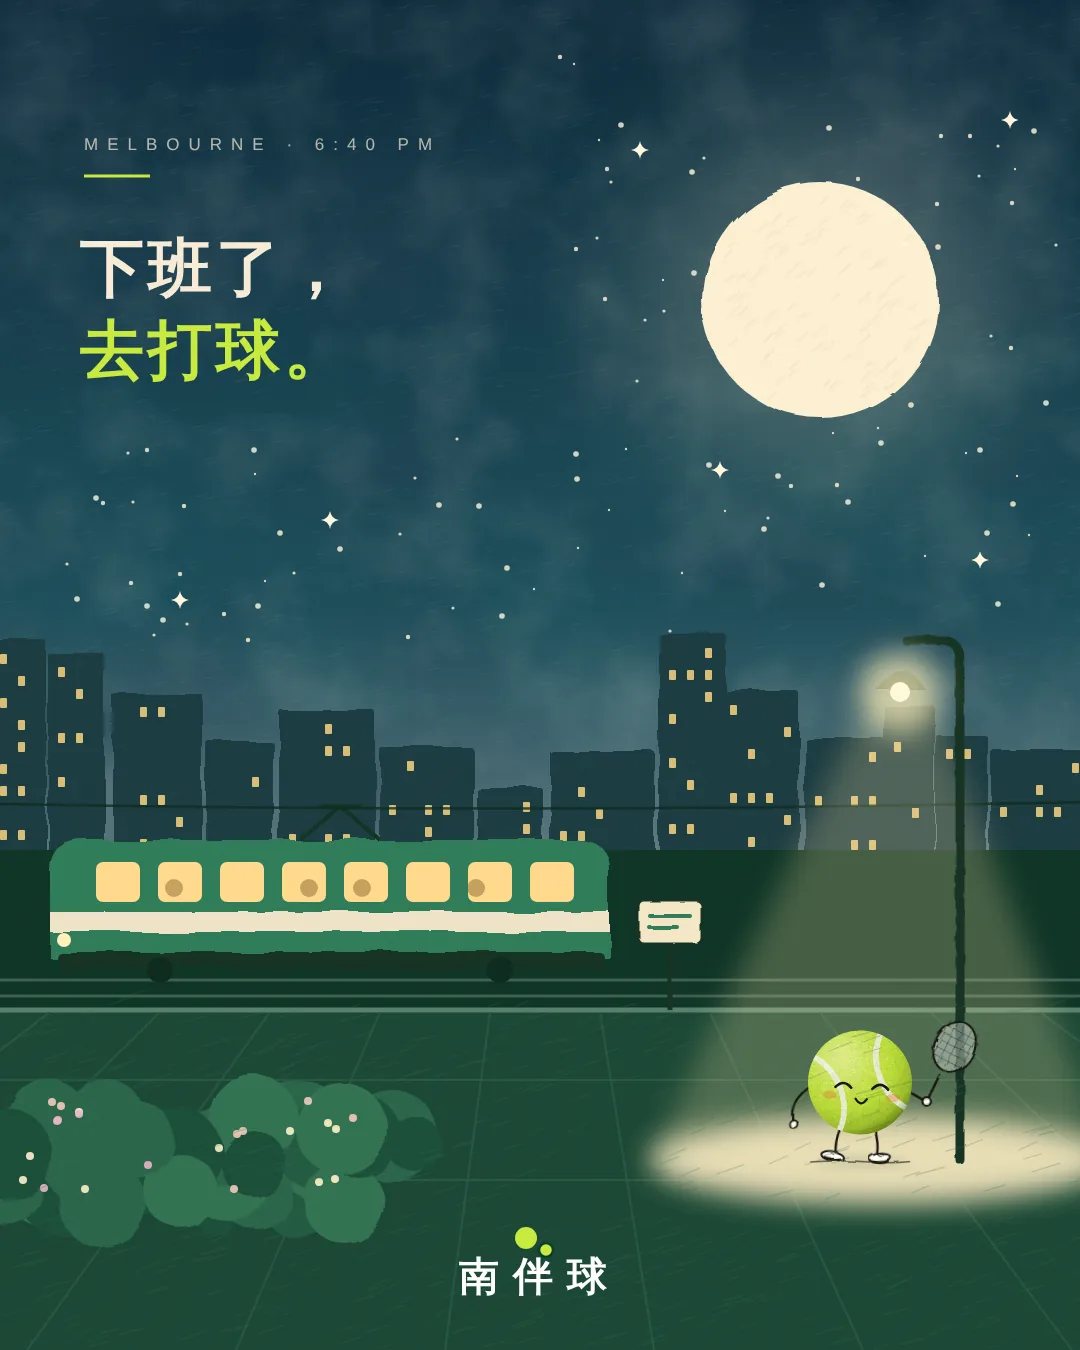
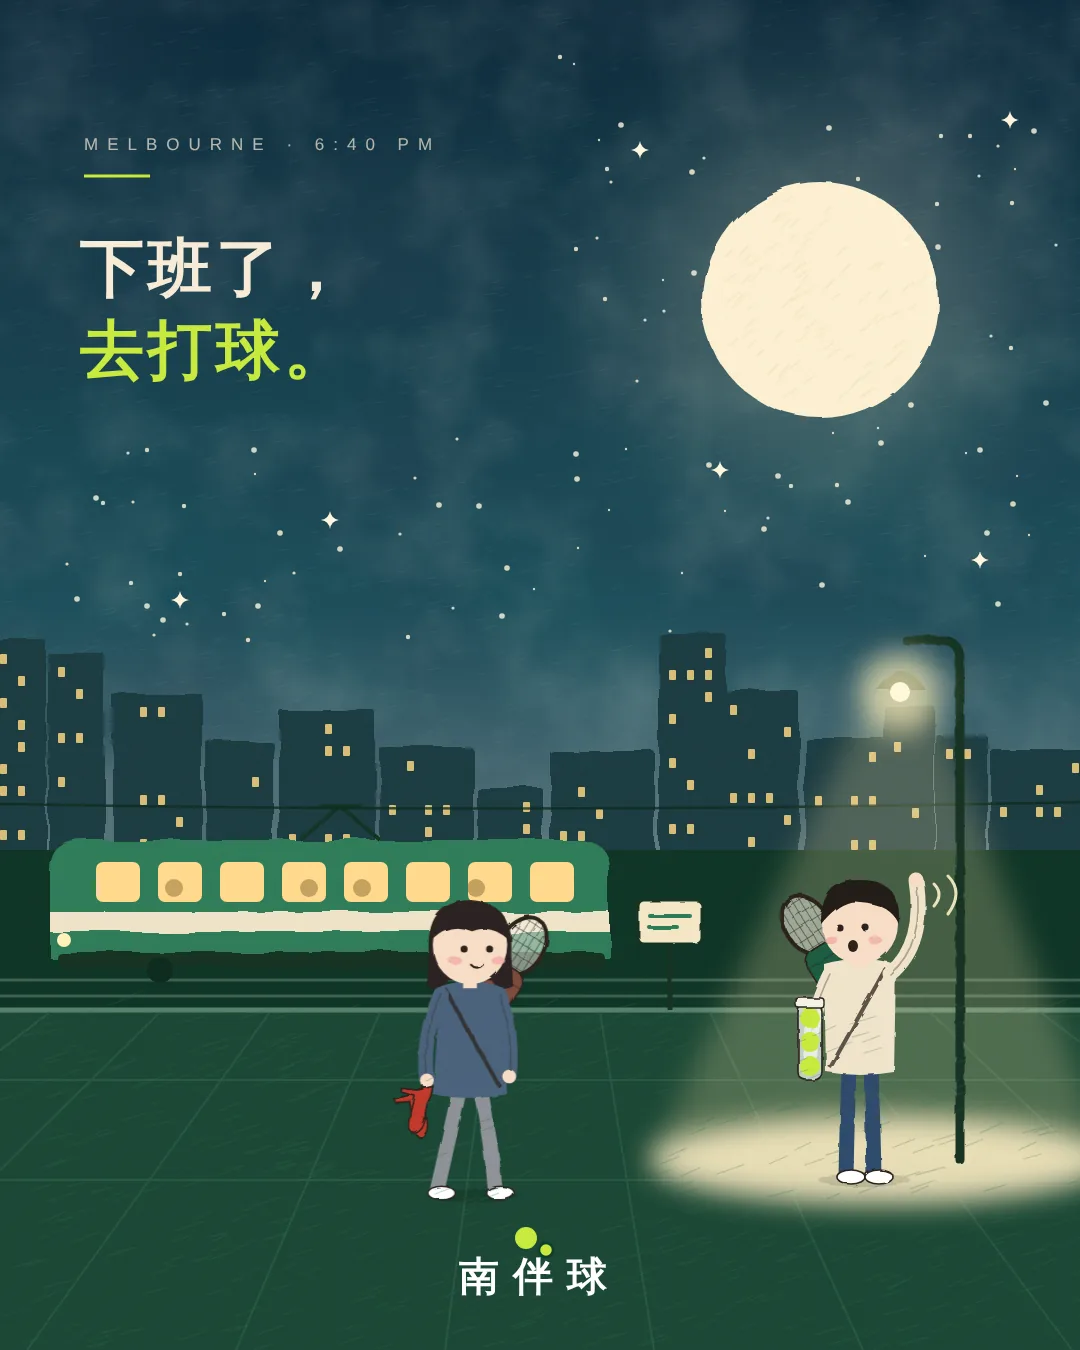
海报 85–86：主角换成都市男女，加故事（下班拎着高跟鞋去约球、雨停前试雨等场地干）；绘本小人抽到 storybook.py
Claude-Session: https://claude.ai/code/session_014vi3eYmPjWCr2gwRMhjjif

Changed region(s): [[0.0, 0.6533, 0.5194, 0.9333], [0.7028, 0.6533, 0.9167, 0.9022]]

diff --git a/marketing/storybook.py b/marketing/storybook.py
@@ -1,0 +1,80 @@
+"""绘本风（85 起）：水彩晕染 wash、彩铅排线 hatch、绘本小人 person。
+person(x, gy, s, ...)：脚踩在 (x, gy)，s=1 时身高约 300；圆头、豆豆眼、腮红、细胳膊细腿，
+衣服平涂，整体套 rough2 轻微抖动。手的位置用相对坐标（以脚底为原点，向上为负）。
+"""
+from lib import *
+
+INK, SKIN = '#2A211C', '#F7DCC4'
+
+
+def wash(fid, seed, freq, color, k, b):
+    """水彩晕染：低频噪声当成一层不均匀的颜料。"""
+    return (f'<filter id="{fid}" x="0" y="0" width="{W}" height="{H}" filterUnits="userSpaceOnUse">'
+            f'<feTurbulence type="fractalNoise" baseFrequency="{freq}" numOctaves="4" seed="{seed}"/>'
+            f'<feColorMatrix values="0 0 0 0 {color[0]} 0 0 0 0 {color[1]} 0 0 0 0 {color[2]} {k} 0 0 0 {b}"/></filter>')
+
+
+def hatch(n, x0, y0, x1, y1, color, op, ang=-62, ln=(10, 22), w=1.3):
+    out = []
+    for _ in range(n):
+        x, y = random.uniform(x0, x1), random.uniform(y0, y1)
+        l = random.uniform(*ln)
+        a = math.radians(ang + random.uniform(-6, 6))
+        out.append(f'M{x:.0f} {y:.0f} l{l*math.cos(a):.1f} {l*math.sin(a):.1f}')
+    return f'<path d="{" ".join(out)}" stroke="{color}" stroke-width="{w}" stroke-linecap="round" opacity="{op}" fill="none"/>'
+
+
+def person(x, gy, s=1.0, sex='f', top='#E9DCC2', bottom='#3B4A5A', hair='#2B2320', shoe='#FFFFFF',
+           L=(-46, -120), R=(46, -120), Le=None, Re=None, legs='stand', look=0, mood='smile',
+           bag=None, behind='', front='', bag_side=1):
+    """L / R：左右手位置；Le / Re：肘的位置（不给就自动）。legs: stand / walk。
+    bag：背在身后的球拍包颜色；behind / front：画在身体后 / 前的道具（同一坐标系）。"""
+    def arm(sh, h, e, sign):
+        if e is None:
+            e = ((sh[0] + h[0]) / 2 + sign * 10, (sh[1] + h[1]) / 2)
+        return (f'<path d="M{sh[0]} {sh[1]} Q{e[0]} {e[1]} {h[0]} {h[1]}" stroke="{top}" stroke-width="15" fill="none" stroke-linecap="round"/>'
+                f'<path d="M{sh[0]} {sh[1]} Q{e[0]} {e[1]} {h[0]} {h[1]}" stroke="{INK}" stroke-width="1.6" fill="none" opacity=".35" stroke-linecap="round"/>'
+                f'<circle cx="{h[0]}" cy="{h[1]}" r="7" fill="{SKIN}"/>')
+    if legs == 'walk':
+        lg = [((-10, -112), (-22, -56), (-34, -4)), ((10, -112), (22, -54), (26, -4))]
+    else:
+        lg = [((-11, -112), (-13, -56), (-14, -4)), ((11, -112), (13, -56), (14, -4))]
+    legs_s = ''.join(f'<path d="M{a[0]} {a[1]} Q{b[0]} {b[1]} {c[0]} {c[1]}" stroke="{bottom}" stroke-width="15" fill="none" stroke-linecap="round"/>' for a, b, c in lg)
+    shoes = ''.join(f'<ellipse cx="{c[0] + 5}" cy="-3" rx="14" ry="7" fill="{shoe}" stroke="{INK}" stroke-width="1.6"/>' for _, _, c in lg)
+    if sex == 'f':
+        torso = f'<path d="M-30 -214 Q0 -224 30 -214 L38 -104 Q0 -96 -38 -104 Z" fill="{top}"/>'
+        hair_b = f'<path d="M-42 -248 Q-46 -300 0 -302 Q46 -300 42 -248 L44 -214 Q30 -206 22 -220 L-22 -220 Q-30 -206 -44 -214 Z" fill="{hair}"/>'
+        hair_f = f'<path d="M-39 -262 Q-30 -300 0 -298 Q34 -298 39 -262 Q20 -278 {-4 + look*6} -270 Q-20 -280 -39 -262 Z" fill="{hair}"/>'
+    else:
+        torso = f'<path d="M-36 -216 Q0 -226 36 -216 L34 -108 Q0 -102 -34 -108 Z" fill="{top}"/>'
+        hair_b = ''
+        hair_f = f'<path d="M-39 -256 Q-40 -302 2 -300 Q42 -300 39 -256 Q30 -276 {6 + look*6} -278 Q-18 -282 -39 -256 Z" fill="{hair}"/>'
+    fx = look * 7
+    if mood == 'smile':
+        mouth = f'<path d="M{fx - 6} -236 Q{fx} -230 {fx + 6} -236" stroke="{INK}" stroke-width="2.2" fill="none" stroke-linecap="round"/>'
+    elif mood == 'open':
+        mouth = f'<ellipse cx="{fx}" cy="-234" rx="5" ry="6" fill="{INK}"/>'
+    else:
+        mouth = f'<path d="M{fx - 5} -234 H{fx + 5}" stroke="{INK}" stroke-width="2.2" stroke-linecap="round"/>'
+    head = (f'<rect x="-7" y="-226" width="14" height="14" fill="{SKIN}"/>'
+            f'<ellipse cx="0" cy="-256" rx="38" ry="40" fill="{SKIN}"/>'
+            f'<circle cx="{fx - 13}" cy="-252" r="3.6" fill="{INK}"/><circle cx="{fx + 13}" cy="-252" r="3.6" fill="{INK}"/>'
+            f'<ellipse cx="{fx - 22}" cy="-240" rx="7" ry="4" fill="#F2A2A0" opacity=".7"/><ellipse cx="{fx + 22}" cy="-240" rx="7" ry="4" fill="#F2A2A0" opacity=".7"/>'
+            + mouth)
+    bag_s = ''
+    if bag:
+        strings = ''.join(f'<path d="M{k} -306 V-232" stroke="{INK}" stroke-width="1" opacity=".5"/>' for k in (-14, -7, 0, 7, 14)) + \
+            ''.join(f'<path d="M-20 {k} H20" stroke="{INK}" stroke-width="1" opacity=".5"/>' for k in (-296, -284, -272, -260, -248))
+        bag_s = (f'<g transform="rotate({32*bag_side} 0 -170)">'
+                 f'<clipPath id="rh{abs(hash((x, gy)))}"><ellipse cx="0" cy="-270" rx="22" ry="32"/></clipPath>'
+                 f'<ellipse cx="0" cy="-270" rx="22" ry="32" fill="#F4F1E6" fill-opacity=".5" stroke="{INK}" stroke-width="4"/>'
+                 f'<g clip-path="url(#rh{abs(hash((x, gy)))})">{strings}</g>'
+                 f'<rect x="-22" y="-246" width="44" height="100" rx="14" fill="{bag}" stroke="{INK}" stroke-width="1.6"/>'
+                 f'<path d="M-22 -232 H22" stroke="{INK}" stroke-width="1.2" opacity=".5"/></g>')
+        strap = f'<path d="M{-26*bag_side} -212 L{30*bag_side} -112" stroke="{INK}" stroke-width="4" opacity=".75"/>'
+    else:
+        strap = ''
+    return (f'<g transform="translate({x} {gy}) scale({s})" filter="url(#rough2)">'
+            f'<ellipse cx="4" cy="0" rx="46" ry="7" fill="#000" opacity=".12"/>'
+            f'{behind}{bag_s}{hair_b}{legs_s}{shoes}{torso}{strap}'
+            f'{arm((-30, -206), L, Le, -1)}{arm((30, -206), R, Re, 1)}{head}{hair_f}{front}</g>')

diff --git a/marketing/posters/p86_rain_ten_minutes.py b/marketing/posters/p86_rain_ten_minutes.py
@@ -1,13 +1,12 @@
 from lib import *
-from mao3 import figure3, DOWN_L, DOWN_R
-from posters.p85_tram_after_work import wash, hatch
+from storybook import wash, hatch, person
 
 
 META = dict(
     id=86, slug='rain-ten-minutes', title='雨停了，再等十分钟', lines=['雨停了，', '再等十分钟。'],
-    style=['插画', '绘本', '角色', '雨'], tone='浅色', demo=False,
-    concept='绘本风（水彩晕染 + 彩铅排线）：雨快停了，湿漉漉的球场积着水，树和铁丝网都是灰绿的；小毛撑着一把深绿的大伞，小绒伸手出伞外试雨，指尖上方落下最后一滴；前面的水洼倒映着他俩',
-    use='雨天改期 / 等场地干的朋友圈配图；小毛小绒绘本风',
+    style=['插画', '绘本', '故事', '雨'], tone='浅色', demo=False,
+    concept='绘本风（水彩晕染 + 彩铅排线）：雨快停了，湿漉漉的球场积着水；男生撑着深绿的大伞、肩上搭着擦场地的毛巾，女生把手伸出伞外试雨，指尖上方落下最后一滴；前面的水洼倒映着他俩',
+    use='雨天改期 / 等场地干的朋友圈配图；绘本风',
 )
 
 
@@ -39,20 +38,20 @@ def svg():
     rain = ''.join(f'<path d="M{x:.0f} {y:.0f} l-6 {random.uniform(18, 34):.0f}"/>' for x, y in
                    [(x, y) for x, y in [(random.uniform(0, 1080), random.uniform(0, 1) ** 2.2 * 640) for _ in range(70)] if not (x < 520 and 100 < y < 420)])
     # 角色 + 伞
-    gy, rm, rr = 1104, 80, 75
-    xm, xr = 460, 636
-    cym = gy - 1.53 * rm
-    hm = ((548 - xm) / rm, (950 - cym) / rm)
-    mao_pose = dict(L=DOWN_L, R=((1.30, .25), hm), legs='stand')
-    rong_pose = dict(L=DOWN_L, R=((1.55, .30), (1.84, .02)), legs='stand')
+    gy = 1110
+    xm, xr = 456, 640
+    towel = ('<path d="M-36 -216 Q-46 -200 -44 -150 L-26 -150 Q-26 -196 -18 -214 Z" fill="#FFFFFF" stroke="#2A211C" stroke-width="1.5"/>'
+             '<path d="M-44 -162 H-26 M-44 -156 H-26" stroke="#2F7552" stroke-width="2"/>')
     def pair(sfx):
-        return (figure3('m' + sfx, xm, 0, rm, mao_pose, 'smile', gy=gy, look=1)
-                + figure3('r' + sfx, xr, 0, rr, rong_pose, 'happy', gy=gy, char='rong'))
-    ucx, utop, urim = 548, 700, 812
-    umb = f'''
+        return (person(xm, gy, 1.0, 'm', top='#C9D6CF', bottom='#3C4A5C', hair='#231C18', L=(-44, -118),
+                       R=(92, -206), Re=(70, -166), look=1, mood='smile', front=towel, bag='#7A4A3A', bag_side=-1)
+                + person(xr, gy, .94, 'f', top='#E8C9A8', bottom='#5B6A7A', hair='#3A2A22', L=(-40, -120),
+                         R=(150, -196), Re=(86, -178), look=1, mood='open', bag='#2F4A6A', bag_side=-1))
+    ucx, utop, urim = 548, 640, 752
+    umb = f'''<g transform="translate({ucx} 0) scale(.8 1) translate({-ucx} 0)">
 <g filter="url(#rough2)">
- <path d="M{ucx} {utop + 6} V952" stroke="#171412" stroke-width="5" stroke-linecap="round"/>
- <path d="M{ucx} 952 Q{ucx} 972 {ucx - 16} 972" stroke="#171412" stroke-width="5" fill="none" stroke-linecap="round"/>
+ <path d="M{ucx} {utop + 6} V904" stroke="#171412" stroke-width="5" stroke-linecap="round"/>
+ <path d="M{ucx} 904 Q{ucx} 924 {ucx - 16} 924" stroke="#171412" stroke-width="5" fill="none" stroke-linecap="round"/>
 </g>
 <g filter="url(#rough)">
  <path d="M{ucx - 290} {urim} Q{ucx - 270} {utop - 10} {ucx} {utop} Q{ucx + 270} {utop - 10} {ucx + 290} {urim}
@@ -64,8 +63,8 @@ def svg():
  <path d="M{ucx} {utop} Q{ucx + 40} {utop + 60} {ucx + 97} {urim - 4}"/><path d="M{ucx} {utop} Q{ucx + 150} {utop + 30} {ucx + 194} {urim - 4}"/></g>
 {hatch(160, ucx - 250, utop + 10, ucx + 250, urim - 20, '#0F3A28', .35, ang=-30, ln=(10, 20), w=1.6).replace('<path', '<path clip-path="url(#uc86)"')}
 <clipPath id="uc86"><path d="M{ucx - 290} {urim} Q{ucx - 270} {utop - 10} {ucx} {utop} Q{ucx + 270} {utop - 10} {ucx + 290} {urim} Z"/></clipPath>
-<path d="M{ucx} {utop} V{utop - 22}" stroke="#171412" stroke-width="5" stroke-linecap="round"/>'''
-    drop = f'<path transform="translate({xr + 1.84*rr:.0f} {gy - 1.53*rr - 40:.0f})" d="M0 -16 Q9 -2 9 4 A9 9 0 0 1 -9 4 Q-9 -2 0 -16Z" fill="#BFD9E4" stroke="#171412" stroke-width="2.4" filter="url(#rough2)"/>'
+<path d="M{ucx} {utop} V{utop - 22}" stroke="#171412" stroke-width="5" stroke-linecap="round"/></g>'''
+    drop = f'<path transform="translate({xr + 141:.0f} {gy - 232:.0f})" d="M0 -16 Q9 -2 9 4 A9 9 0 0 1 -9 4 Q-9 -2 0 -16Z" fill="#BFD9E4" stroke="#171412" stroke-width="2.4" filter="url(#rough2)"/>'
     # 前景地面 + 水洼倒影
     pud = '<ellipse cx="548" cy="1170" rx="300" ry="38"/>'
     refl = f'<g clip-path="url(#pc86)" opacity=".38"><g transform="translate(0 {2*gy}) scale(1 -1)">{pair("x")}</g></g>'
@@ -89,8 +88,8 @@ def svg():
 <g fill="#B8CDD0">{pud}</g>
 {refl}
 <g fill="none" stroke="#F4F7F2" stroke-width="2" opacity=".7"><ellipse cx="330" cy="1172" rx="26" ry="5"/><ellipse cx="330" cy="1172" rx="48" ry="9" opacity=".5"/></g>
-{umb}
 {pair('')}
+{umb}
 {drop}
 <rect width="{W}" height="{H}" filter="url(#w86b)" opacity=".22"/>
 {tag('AFTER THE RAIN', color='#0B3B2A', rule='#0B3B2A', op=.8, weight=700)}

diff --git a/marketing/posters/p85_tram_after_work.py b/marketing/posters/p85_tram_after_work.py
@@ -1,30 +1,14 @@
 from lib import *
-from mao3 import figure3, DOWN_L
+from storybook import INK
+from storybook import wash, hatch, person
 
 
 META = dict(
     id=85, slug='tram-after-work', title='下班了，去打球', lines=['下班了，', '去打球。'],
-    style=['插画', '绘本', '角色', '意境'], tone='深色', demo=False,
-    concept='绘本风（水彩晕染 + 彩铅排线 + 大场景小人物）：墨尔本傍晚，大月亮和满天小星，远处楼群亮着窗，一辆亮着灯的电车开过；路灯下的车站，小毛背着球拍等车，整张最亮的就是这颗球',
-    use='下班后约晚场的朋友圈 / 小红书配图；小毛绘本风第一张',
+    style=['插画', '绘本', '故事', '意境'], tone='深色', demo=False,
+    concept='绘本风（水彩晕染 + 彩铅排线）：墨尔本傍晚，大月亮和满天小星，电车刚开走；穿西装的女生背着球拍包走过来，高跟鞋拎在手上、脚上已经换了球鞋；路灯下的男生拎着一罐新球朝她招手',
+    use='下班后约晚场的朋友圈 / 小红书配图；绘本风第一张',
 )
-
-
-def wash(fid, seed, freq, color, k, b):
-    """水彩晕染：低频噪声当成一层不均匀的颜料。"""
-    return (f'<filter id="{fid}" x="0" y="0" width="{W}" height="{H}" filterUnits="userSpaceOnUse">'
-            f'<feTurbulence type="fractalNoise" baseFrequency="{freq}" numOctaves="4" seed="{seed}"/>'
-            f'<feColorMatrix values="0 0 0 0 {color[0]} 0 0 0 0 {color[1]} 0 0 0 0 {color[2]} {k} 0 0 0 {b}"/></filter>')
-
-
-def hatch(n, x0, y0, x1, y1, color, op, ang=-62, ln=(10, 22), w=1.3):
-    out = []
-    for _ in range(n):
-        x, y = random.uniform(x0, x1), random.uniform(y0, y1)
-        l = random.uniform(*ln)
-        a = math.radians(ang + random.uniform(-6, 6))
-        out.append(f'M{x:.0f} {y:.0f} l{l*math.cos(a):.1f} {l*math.sin(a):.1f}')
-    return f'<path d="{" ".join(out)}" stroke="{color}" stroke-width="{w}" stroke-linecap="round" opacity="{op}" fill="none"/>'
 
 
 def svg():
@@ -75,11 +59,16 @@ def svg():
 </g>
 <circle cx="{lx}" cy="692" r="40" fill="#FFF0B8" opacity=".7" filter="url(#bl14)"/>
 <circle cx="{lx}" cy="692" r="10" fill="#FFF8DA"/>'''
-    bush = '<g filter="url(#rough)">' + ''.join(
-        f'<circle cx="{random.uniform(-20, 420):.0f}" cy="{random.uniform(1110, 1210):.0f}" r="{random.uniform(26, 48):.0f}" fill="{random.choice(["#24583F", "#2B6448", "#1F4E38", "#336F50"])}"/>' for _ in range(34)) + '</g>'
-    bush += ''.join(f'<circle cx="{random.uniform(0, 400):.0f}" cy="{random.uniform(1100, 1190):.0f}" r="4" fill="{random.choice(["#F3C9B8", "#FFF1C8", "#E8B4C8"])}" opacity=".9"/>' for _ in range(22))
-    pose = dict(L=DOWN_L, R=((1.40, .36), (1.30, .30)), legs='stand', racket=True, tilt=3)
-    mao = figure3('m85', lx - 40, 0, 52, pose, 'happy', gy=1162)
+    pump = 'M0 -18 L4 -2 L2 14 H6 L10 0 Q24 4 40 6 Q48 6 48 0 Q46 -8 34 -10 Q20 -10 10 -16 Z'
+    heels = ''.join(f'<path transform="translate({-44 + dx} -112) rotate({78 + dx*2}) translate(0 18)" d="{pump}" fill="#C0392B" stroke="{INK}" stroke-width="1.6"/>' for dx in (-4, 6))
+    her = person(470, 1196, .98, 'f', top='#4A6079', bottom='#8B8F94', hair='#2B2320', bag='#7A4A3A', bag_side=1,
+                 L=(-44, -118), Le=(-50, -160), R=(40, -122), legs='walk', look=1, mood='smile', front=heels)
+    tube = ('<rect x="-62" y="-176" width="24" height="76" rx="8" fill="#E8F0EE" fill-opacity=".75" stroke="#2A211C" stroke-width="1.6"/>'
+            '<circle cx="-50" cy="-162" r="10" fill="#C6EA3D"/><circle cx="-50" cy="-138" r="10" fill="#C6EA3D"/><circle cx="-50" cy="-114" r="10" fill="#C6EA3D"/>'
+            '<rect x="-64" y="-182" width="28" height="10" rx="3" fill="#F4F1E6" stroke="#2A211C" stroke-width="1.4"/>')
+    him = person(860, 1180, 1.0, 'm', top='#EFE3C8', bottom='#2F4A6A', hair='#231C18', bag='#1E5A40', bag_side=-1,
+                 L=(-50, -126), R=(56, -300), Re=(66, -236), legs='stand', look=-1, mood='open', front=tube)
+    wave = '<g stroke="#FFF1C8" stroke-width="3" fill="none" stroke-linecap="round" opacity=".9"><path d="M934 884 q10 10 0 22"/><path d="M948 876 q16 16 0 38"/></g>'
     body = f'''
 <defs>
  <linearGradient id="bg85" x1="0" y1="0" x2="0" y2="1"><stop offset="0" stop-color="#0D2A3A"/><stop offset=".45" stop-color="#1D4F5A"/><stop offset=".68" stop-color="#6B7F86"/><stop offset=".78" stop-color="#C9A28E"/></linearGradient>
@@ -105,8 +94,7 @@ def svg():
 <g stroke="#2C5A45" stroke-width="2" opacity=".8">{''.join(f'<path d="M{x} 1012 L{x + (x-540)*.9:.0f} 1350"/>' for x in range(-60, 1200, 110))}<path d="M0 1080 H1080 M0 1180 H1080"/></g>
 {tram}
 {stop}
-{bush}
-{mao}
+{her}{him}{wave}
 {hatch(500, 0, 1000, W, 1350, '#3D6B55', .25, ang=-20, ln=(14, 30))}
 {tag('MELBOURNE · 6:40 PM')}
 {headline(META['lines'], y=290, size=64, colors=(C['cream'], C['lime']), lh=82)}
